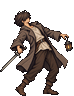
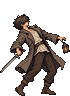
feat: [S-LOOK-PRINCIPLE][M-UI-HUD] 立ち絵を人物ごとの背丈に揃えて取り込み、どの画面でも画の高さに比例して描き、思考中の呼吸を背丈から分ける

diff --git a/art/import.js b/art/import.js
@@ -1,7 +1,8 @@
 // [I-PLAN-ASSETS]【実体の投入】生成した画像と音声を取り込む。Electron の主プロセスとして動かす。
 //   pnpm art <取り込み元のフォルダ> [asset_id …]
 // 取り込み元の <asset_id>.png を読み、共通のドットの格子（論理解像度 1280×720 の2画素を1ドットとする、640×360 ドット）へ
-// 縮める。立ち絵は背景を除いて余白を詰め、64×96 ドットの透明な枠の下端に置いた PNG に、背景は 16:9 に切り出して
+// 縮める。立ち絵は背景を除いて余白を詰め、人物ごとの表示の高さ（heights.js。無ければ 64×96 ドットの枠に収める）に縮めて
+// 透明な枠（64×96 ドット以上）の下端に置いた PNG に、背景は 16:9 に切り出して
 // 640×360 ドットの PNG にして、src/ui/public/art/ へ書き出す。構えの画（<立ち絵のID>_MARTIAL・_STAGGER 等）は元の立ち絵と
 // 同じ倍率で縮め、幅を 96 ドット、高さを 104 ドットまで広げてよい（取り込み元に元の立ち絵も置く）。人物が元の画と異なる大きさで
 // 描かれた構えの画は、取り込み元の scales.json（{ "<asset_id>": 倍率 }）で倍率を補正する。画面は image-rendering: pixelated で拡大して描く。
@@ -13,7 +14,8 @@ import { copyFileSync, existsSync, mkdirSync, readdirSync, readFileSync, writeFi
 import path from 'node:path';
 import { fileURLToPath } from 'node:url';
 import { writeManifest } from './manifest.js';
-import { crop16x9, fitInto, fitLike, hasTransparency, opaqueBounds, placeBottomCenter, removeFlatBackground, snapAlpha, targetOf } from './image.js';
+import { FIGURE_HEIGHTS } from './heights.js';
+import { crop16x9, fitLike, hasTransparency, opaqueBounds, placeBottomCenter, removeFlatBackground, snapAlpha, targetOf } from './image.js';
 
 const OUT_DIR = path.resolve(path.dirname(fileURLToPath(import.meta.url)), '..', 'src', 'ui', 'public', 'art');
 // 1ドット = 論理解像度の2画素。立ち絵は戦闘の表示の高さ 192px（96ドット）、背景は 1280×720（640×360 ドット）。
@@ -36,15 +38,29 @@ function cutOut(source) {
   return { pixels, width, height, bounds };
 }
 
-// base は構えの画の元の立ち絵（[S-LOOK-PRINCIPLE]【盤面の構え】）。与えられたときは元の画と同じ倍率で縮め、
+// [S-LOOK-PRINCIPLE]【盤面の大きさ】元の立ち絵を縮める枠。表（heights.js）にある立ち絵は範囲の高さをその値に揃え、
+// 無い立ち絵は 64×96 の枠に収める。
+function standingBoxOf(id) {
+  const entry = FIGURE_HEIGHTS[id];
+  return entry === undefined ? STANDING_BOX : { width: Infinity, height: entry.height };
+}
+
+// base は倍率を決める元の立ち絵の範囲（元の立ち絵そのものでは Null）と枠。構えの画（[S-LOOK-PRINCIPLE]【盤面の構え】）は元の画と同じ倍率で縮め、
 // 得物を伸ばした構えが枠を越える分は、枠を POSE_MAX まで広げて収める（足元は枠の下端に揃える）。
 function importStanding(source, base) {
   const { pixels, width, height, bounds } = cutOut(source);
   const cropped = nativeImage.createFromBitmap(pixels, { width, height }).crop(bounds);
-  const size =
-    base === null
-      ? fitInto(bounds.width, bounds.height, STANDING_BOX.width, STANDING_BOX.height)
-      : fitLike(bounds.width, bounds.height, base.bounds.width, base.bounds.height, STANDING_BOX.width, STANDING_BOX.height, POSE_MAX.width, POSE_MAX.height);
+  const reference = base.bounds ?? bounds;
+  const size = fitLike(
+    bounds.width,
+    bounds.height,
+    reference.width,
+    reference.height,
+    base.box.width,
+    base.box.height,
+    POSE_MAX.width,
+    POSE_MAX.height,
+  );
   const box = { width: Math.max(STANDING_BOX.width, size.width + (size.width % 2)), height: Math.max(STANDING_BOX.height, size.height) };
   const scaled = cropped.resize({ ...size, quality: 'best' });
   const placed = placeBottomCenter(snapAlpha(scaled.toBitmap()), size.width, size.height, box.width, box.height);
@@ -64,20 +80,20 @@ function importBackground(source, offsetY) {
     .toPNG();
 }
 
-// 構えの画の倍率を決める元の立ち絵。構えの画を取り込むには、取り込み元に元の立ち絵も置く。
-// scale は構えの画の人物が元の画と異なる大きさで描かれたときの補正（取り込み元の scales.json、既定 1）。
-// 元の画の範囲を scale で割って与え、縮める倍率を scale 倍にする。
-function poseBase(sourceDir, id, scale) {
+// 倍率を決める元の立ち絵の範囲と枠。元の立ち絵そのものは自身の範囲を用いる（Null）。構えの画を取り込むには、
+// 取り込み元に元の立ち絵も置く。scale は構えの画の人物が元の画と異なる大きさで描かれたときの補正
+// （取り込み元の scales.json、既定 1）。元の画の範囲を scale で割って与え、縮める倍率を scale 倍にする。
+function standingBase(sourceDir, id, scale) {
   const baseId = poseBaseOf(id);
   if (baseId === null) {
-    return null;
+    return { bounds: null, box: standingBoxOf(id) };
   }
   const base = nativeImage.createFromPath(path.join(sourceDir, `${baseId}.png`));
   if (base.isEmpty()) {
     throw new Error(`構えの画の元の立ち絵が取り込み元に無い：${baseId}`);
   }
   const { bounds } = cutOut(base);
-  return { bounds: { width: bounds.width / scale, height: bounds.height / scale } };
+  return { bounds: { width: bounds.width / scale, height: bounds.height / scale }, box: standingBoxOf(baseId) };
 }
 
 function main() {
@@ -113,7 +129,7 @@ function main() {
     }
     const data =
       target.kind === 'STANDING'
-        ? importStanding(source, poseBase(sourceDir, id, scales[id] ?? 1))
+        ? importStanding(source, standingBase(sourceDir, id, scales[id] ?? 1))
         : importBackground(source, crops[id] ?? 0);
     writeFileSync(out, data);
     console.log(`${id} → art/${target.file}（${Math.round(data.length / 1024)}KB）`);

diff --git a/src/ui/style.css b/src/ui/style.css
@@ -565,10 +565,14 @@ button:focus-visible {
     drop-shadow(0 0 calc(var(--pose-glow, 0) * 10px) rgba(var(--glow-rgb), calc(var(--pose-glow, 0) * 0.9)));
 }
 .bcol-foe .pose { --glow-rgb: 196, 160, 255; }
-/* 思考中の呼吸。腰の高さ（下から55%、立ち絵の高さ 192px の上から 86px）で分け、上の側の写し（.breath-upper）だけを
-   持ち上げる。下の側は境の1画素（2px）上まで描き、持ち上げで空く行を埋める。 */
-.shot { --breath-cut: 86px; }
-.bcol.master .shot { --breath-cut: 88px; }
+/* 思考中の呼吸。腰の高さ（人物の背丈 --figure-body の下から55%）で分け、上の側の写し（.breath-upper）だけを
+   持ち上げる。下の側は境の1画素（2px）上まで描き、持ち上げで空く行を埋める。境は立ち絵の画素に揃える。 */
+.shot > * {
+  --breath-cut: round(down, calc((var(--figure-dots, 96) - var(--figure-body, var(--figure-dots, 96)) * 0.55) * 2px), 2px);
+}
+.bcol.master .shot > * {
+  --breath-cut: calc(round(down, var(--figure-dots, 96) - var(--figure-body, var(--figure-dots, 96)) * 0.55, 1) * 198px / 96);
+}
 .shot.breathing { position: relative; }
 .breath-lower { clip-path: inset(calc(var(--breath-cut) - 2px) 0 0 0); }
 .breath-upper {
@@ -1888,7 +1892,8 @@ button:disabled { opacity: 0.4; cursor: default; }
    背景は入口が画面の根に --screen-image（脚本は --script-image）を与える。実体の無い間は none となり、
    下に重ねたプレースホルダの層がそのまま見える。立ち絵は .figure-img（読み込めなければ人形に戻る）。
    実体は共通のドットの格子（論理解像度の2画素を1ドット）で書き出してあり、拡大は最近傍で行う（ドットを滲ませない）。
-   戦闘の立ち絵は 96 ドットの高さを 192px で描く。 */
+   戦闘の立ち絵は 96 ドットの高さを 192px で描く。立ち絵は画の高さ（ドット、--figure-dots）に比例して描き、
+   人物ごとの表示の大きさ（[S-LOOK-PRINCIPLE]【盤面の大きさ】）と、96 ドットを越える画を、どの画面でも同じ比で示す。 */
 .figure-img,
 .field-bg,
 .screen-title,
@@ -1901,24 +1906,22 @@ button:disabled { opacity: 0.4; cursor: default; }
 .figure-img {
   display: block;
   width: auto;
-  height: 192px;
+  height: calc(var(--figure-dots, 96) * 2px);
   max-width: 100%;
   object-fit: contain;
   object-position: bottom center;
   pointer-events: none;
   user-select: none;
 }
-.bcol.master .figure-img { height: 198px; transform: none; }
-/* 盤面の立ち絵は、画の高さ（ドット、--figure-dots）に比例して描く。96 ドットを越える構えの画も元の立ち絵と
-   同じ倍率で上へ伸び、足元は揃う（art.ts が目録の高さを与える）。 */
-.cell .figure-img { height: calc(var(--figure-dots, 96) * 2px); max-width: none; }
-.bcol.master .cell .figure-img { height: calc(var(--figure-dots, 96) * 198px / 96); }
+.bcol.master .figure-img { height: calc(var(--figure-dots, 96) * 198px / 96); transform: none; }
+/* 盤面の立ち絵は、96 ドットを越える構えの画も元の立ち絵と同じ倍率で上へ伸び、足元は揃う（art.ts が目録の高さを与える）。 */
+.cell .figure-img { max-width: none; }
 .bcol-mine .figure-img { filter: drop-shadow(0 0 10px rgba(255, 138, 43, 0.35)); }
 .bcol-foe .figure-img { filter: drop-shadow(0 0 10px rgba(144, 112, 200, 0.4)); }
-.pm .figure-img { height: 132px; margin-bottom: 6px; }
+.pm .figure-img { height: calc(var(--figure-dots, 96) * 132px / 96); margin-bottom: 6px; }
 .pm.sel .figure-img { filter: drop-shadow(0 0 12px rgba(255, 138, 43, 0.75)); }
 .pm.fallen .figure-img { filter: grayscale(1); opacity: 0.4; }
-.rfig .figure-img { height: 118px; margin-bottom: 5px; }
+.rfig .figure-img { height: calc(var(--figure-dots, 96) * 118px / 96); margin-bottom: 5px; }
 .rfig.dead .figure-img { filter: grayscale(1); opacity: 0.34; }
 .rfig.dead.hl .figure-img { filter: grayscale(0.35); opacity: 0.78; }
 

diff --git a/art/manifest.js b/art/manifest.js
@@ -1,11 +1,14 @@
 // [I-PLAN-ASSETS]【実体の投入】実体の目録。src/ui/public/art/ にあるファイルの一覧を src/ui/assets/art-manifest.ts へ書き出す。
 // 画面は目録にあるファイルだけを読みに行き、実体の無い資産はプレースホルダのまま描く（無いファイルを要求し続けない）。
-// 立ち絵は高さ（ドット）も書き出す。盤面は高さに比例して描き、96 ドットを越える構えの画も同じ倍率で描く。
+// 立ち絵は高さ（ドット）も書き出す。画面は高さに比例して描き、96 ドットを越える画も同じ倍率で描く。
+// 人物の背丈（heights.js）も書き出し、思考中の呼吸で分ける腰の高さに用いる。
 //   node art/manifest.js
 
 import { existsSync, readFileSync, readdirSync, statSync, writeFileSync } from 'node:fs';
 import path from 'node:path';
 import { fileURLToPath } from 'node:url';
+import { FIGURE_HEIGHTS } from './heights.js';
+import { targetOf } from './image.js';
 
 const ROOT = path.resolve(path.dirname(fileURLToPath(import.meta.url)), '..');
 const ART_DIR = path.join(ROOT, 'src', 'ui', 'public', 'art');
@@ -36,13 +39,21 @@ export function writeManifest() {
     .filter((file) => file.startsWith('art/standing/') && file.endsWith('.png'))
     .map((file) => `  ${JSON.stringify(file)}: ${pngHeight(file)},`)
     .join('\n');
+  const bodies = Object.entries(FIGURE_HEIGHTS)
+    .map(([id, entry]) => [`art/${targetOf(id)?.file}`, entry.body ?? entry.height])
+    .filter(([file]) => files.includes(file))
+    .sort(([a], [b]) => a.localeCompare(b))
+    .map(([file, height]) => `  ${JSON.stringify(file)}: ${height},`)
+    .join('\n');
   writeFileSync(
     OUT,
     `// このファイルは art/manifest.js により生成される（[I-PLAN-ASSETS]【実体の投入】）。生成後に人が編集しない。\n` +
       `// src/ui/public/art/ にある実体の一覧。\n` +
       `export const ART_FILES: readonly string[] = [\n${body}${body === '' ? '' : '\n'}];\n\n` +
       `// 立ち絵の高さ（ドット）。\n` +
-      `export const STANDING_HEIGHTS: Readonly<Record<string, number>> = {\n${heights}${heights === '' ? '' : '\n'}};\n`,
+      `export const STANDING_HEIGHTS: Readonly<Record<string, number>> = {\n${heights}${heights === '' ? '' : '\n'}};\n\n` +
+      `// 元の立ち絵の人物の背丈（ドット。[S-LOOK-PRINCIPLE]【盤面の大きさ】）。\n` +
+      `export const STANDING_BODIES: Readonly<Record<string, number>> = {\n${bodies}${bodies === '' ? '' : '\n'}};\n`,
   );
   return files.length;
 }

diff --git a/src/ui/assets/art-manifest.ts b/src/ui/assets/art-manifest.ts
@@ -79,8 +79,8 @@ export const ART_FILES: readonly string[] = [
 export const STANDING_HEIGHTS: Readonly<Record<string, number>> = {
   "art/standing/ashal.png": 96,
   "art/standing/calva.png": 96,
-  "art/standing/dorn.png": 96,
-  "art/standing/garud.png": 96,
+  "art/standing/dorn.png": 104,
+  "art/standing/garud.png": 102,
   "art/standing/hero-coat-act2.png": 96,
   "art/standing/hero-martial-follow.png": 96,
   "art/standing/hero-martial.png": 96,
@@ -93,9 +93,9 @@ export const STANDING_HEIGHTS: Readonly<Record<string, number>> = {
   "art/standing/ish.png": 96,
   "art/standing/kai.png": 96,
   "art/standing/lef-martial-follow.png": 96,
-  "art/standing/lef-martial.png": 100,
+  "art/standing/lef-martial.png": 96,
   "art/standing/lef-mind-follow.png": 96,
-  "art/standing/lef-mind.png": 97,
+  "art/standing/lef-mind.png": 96,
   "art/standing/lef-stagger.png": 96,
   "art/standing/lef-stance-follow.png": 96,
   "art/standing/lef-stance.png": 96,
@@ -108,5 +108,27 @@ export const STANDING_HEIGHTS: Readonly<Record<string, number>> = {
   "art/standing/shard-arm.png": 96,
   "art/standing/stitched.png": 96,
   "art/standing/toto.png": 96,
+  "art/standing/volg.png": 96,
+};
+
+// 元の立ち絵の人物の背丈（ドット。[S-LOOK-PRINCIPLE]【盤面の大きさ】）。
+export const STANDING_BODIES: Readonly<Record<string, number>> = {
+  "art/standing/ashal.png": 74,
+  "art/standing/calva.png": 86,
+  "art/standing/dorn.png": 89,
+  "art/standing/garud.png": 96,
+  "art/standing/hero-coat-act2.png": 92,
+  "art/standing/hero.png": 92,
+  "art/standing/ish.png": 92,
+  "art/standing/kai.png": 82,
+  "art/standing/lef.png": 84,
+  "art/standing/listener.png": 50,
+  "art/standing/mireille.png": 86,
+  "art/standing/rina.png": 82,
+  "art/standing/rotted-familiar.png": 32,
+  "art/standing/servis.png": 84,
+  "art/standing/shard-arm.png": 60,
+  "art/standing/stitched.png": 88,
+  "art/standing/toto.png": 68,
   "art/standing/volg.png": 96,
 };

diff --git a/tests/art/heights.test.ts b/tests/art/heights.test.ts
@@ -1,0 +1,35 @@
+// [S-LOOK-PRINCIPLE]【盤面の大きさ】人物ごとの立ち絵の表示の大きさ（art/heights.js）。
+
+import { describe, expect, it } from 'vitest';
+import { FIGURE_HEIGHTS } from '../../art/heights.js';
+import { targetOf } from '../../art/image.js';
+import { ASSET_MASTERS } from '../../src/data/generated/asset-masters.js';
+import type { AssetMasterRecord } from '../../src/data/types.js';
+import { ART_FILES, STANDING_BODIES } from '../../src/ui/assets/art-manifest.js';
+
+const assets: Readonly<Record<string, AssetMasterRecord>> = ASSET_MASTERS;
+const entries = Object.entries(FIGURE_HEIGHTS as Record<string, { height: number; body?: number }>);
+
+describe('[S-LOOK-PRINCIPLE]【盤面の大きさ】', () => {
+  it('表の立ち絵は構えを持たない STANDING であり、高さは上限 104 ドット以内、背丈は高さ以内である', () => {
+    for (const [id, entry] of entries) {
+      const record = assets[id];
+      expect(record?.slot, id).toBe('STANDING');
+      expect(record?.pose ?? null, id).toBeNull();
+      expect(entry.height, id).toBeLessThanOrEqual(104);
+      expect(entry.body ?? entry.height, id).toBeLessThanOrEqual(entry.height);
+    }
+  });
+
+  it('実体のある元の立ち絵は、どれも表に載り（同じ画を共有するものは代表が載り）、目録に背丈が書き出される', () => {
+    const bases = Object.values(assets).filter(
+      (record) => record.slot === 'STANDING' && (record.pose ?? null) === null && ART_FILES.includes(record.path),
+    );
+    expect(bases.length).toBeGreaterThan(0);
+    const tabled = new Set(entries.map(([id]) => `art/${targetOf(id)?.file}`));
+    for (const record of bases) {
+      expect(tabled.has(record.path), record.asset_id).toBe(true);
+      expect(STANDING_BODIES[record.path], record.asset_id).toBeDefined();
+    }
+  });
+});

diff --git a/art/heights.js b/art/heights.js
@@ -1,0 +1,26 @@
+// [S-LOOK-PRINCIPLE]【盤面の大きさ】立ち絵の表示の大きさ（ドット）。正本の表は人物の背丈で定める。
+//   height：取り込みで、元の立ち絵の不透明な範囲の高さをこの値に縮める（構えの画は元の立ち絵と同じ倍率）。
+//           掲げた持ち物・立ち昇る煙が頭より上へ出る画は、生成した画で測った「範囲の高さ ÷ 背丈」を背丈に掛けた値とする。
+//   body：背丈（省略時は height）。思考中の呼吸で立ち絵を分ける腰の高さ（背丈の下から55%）に用いる。
+// 画を作り直したら測り直す。表に無い立ち絵は 64×96 の枠に収める。
+
+export const FIGURE_HEIGHTS = {
+  ASSET_HERO_STANDING: { height: 92 },
+  ASSET_HERO_STANDING_COAT_ACT2: { height: 92 },
+  ASSET_RINA_STANDING: { height: 82 },
+  ASSET_GARUD_STANDING: { height: 102, body: 96 }, // 肩に担いだ大斧
+  ASSET_MIREILLE_STANDING: { height: 86 },
+  ASSET_KAI_STANDING: { height: 82 },
+  ASSET_SERVIS_STANDING: { height: 84 },
+  ASSET_TOTO_STANDING: { height: 68 },
+  ASSET_LEF_STANDING: { height: 84 },
+  ASSET_DORN_STANDING: { height: 104, body: 89 }, // 軍旗の穂先。背丈 92 では上限の 104 を越えるため、上限に収める
+  ASSET_VOLG_STANDING: { height: 96 },
+  ASSET_ISH_STANDING: { height: 92 },
+  ASSET_CALVA_STANDING: { height: 91, body: 86 }, // 指先の煙
+  ASSET_ASHAL_STANDING: { height: 96, body: 74 }, // 結晶の腕
+  ASSET_STITCHED_STANDING: { height: 91, body: 88 }, // 輪郭の煙
+  ASSET_LISTENER_STANDING: { height: 62, body: 50 }, // 座った姿。輪郭の煙
+  ASSET_ROTTED_FAMILIAR_STANDING: { height: 32 },
+  ASSET_SHARD_ARM_STANDING: { height: 60 },
+};

diff --git a/src/ui/dom/art.ts b/src/ui/dom/art.ts
@@ -2,7 +2,7 @@
 // 実体の参照先は表示アセットマスタから引く（[M-DATA-ASSETMASTER]【差分の選択】）。引き方は入口（src/ui/main.ts）が与える。
 
 import type { AssetOwnerKind } from '../../data/types.js';
-import { STANDING_HEIGHTS } from '../assets/art-manifest.js';
+import { STANDING_BODIES, STANDING_HEIGHTS } from '../assets/art-manifest.js';
 
 export type FigureLookup = (ownerKind: AssetOwnerKind, ownerId: string | null) => string | null;
 
@@ -28,14 +28,19 @@ function placeholderFigure(className: string): HTMLElement {
   return node;
 }
 
-// 立ち絵の画像の参照先と高さ（ドット）を与える。
+// 立ち絵の画像の参照先と、画の高さ（--figure-dots）・人物の背丈（--figure-body。思考中の呼吸で分ける腰の高さ）を与える。
 export function setFigureSource(image: HTMLImageElement, url: string): void {
   image.src = url;
-  const dots = STANDING_HEIGHTS[url.split('#')[0] ?? ''];
-  if (dots === undefined) {
-    image.style.removeProperty('--figure-dots');
-  } else {
-    image.style.setProperty('--figure-dots', String(dots));
+  const file = url.split('#')[0] ?? '';
+  for (const [name, dots] of [
+    ['--figure-dots', STANDING_HEIGHTS[file]],
+    ['--figure-body', STANDING_BODIES[file]],
+  ] as const) {
+    if (dots === undefined) {
+      image.style.removeProperty(name);
+    } else {
+      image.style.setProperty(name, String(dots));
+    }
   }
 }
 

diff --git a/src/ui/dom/battle-screen.ts b/src/ui/dom/battle-screen.ts
@@ -538,6 +538,7 @@ function renderColumn(
     // [S-LOOK-SUMMON-COMMON]「セインの仮身」元の敵の仮身の画を反転し、燈火の色の縁と胸元の小さな火を重ねる。
     body = element('div', 'figure-wrap mine-creature');
     body.append(figure, element('span', 'chest-flame'));
+    body.style.cssText = figure.style.cssText; // 画の高さと背丈を、呼吸で分ける器にも与える
   }
   let shotNode: HTMLElement | null = null;
   if (plate === null) {
